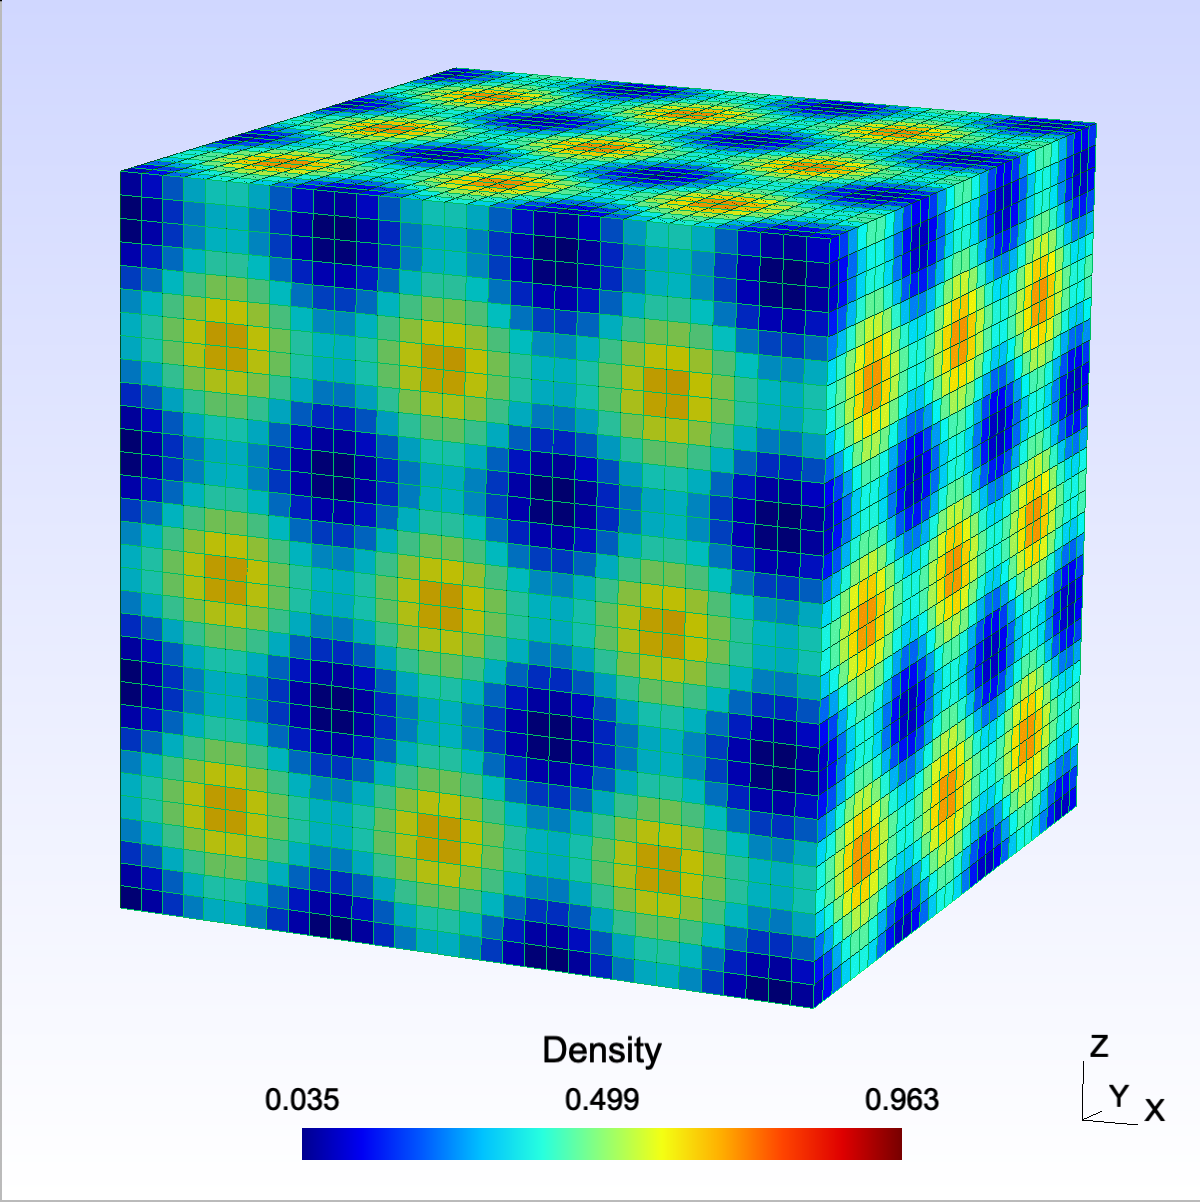
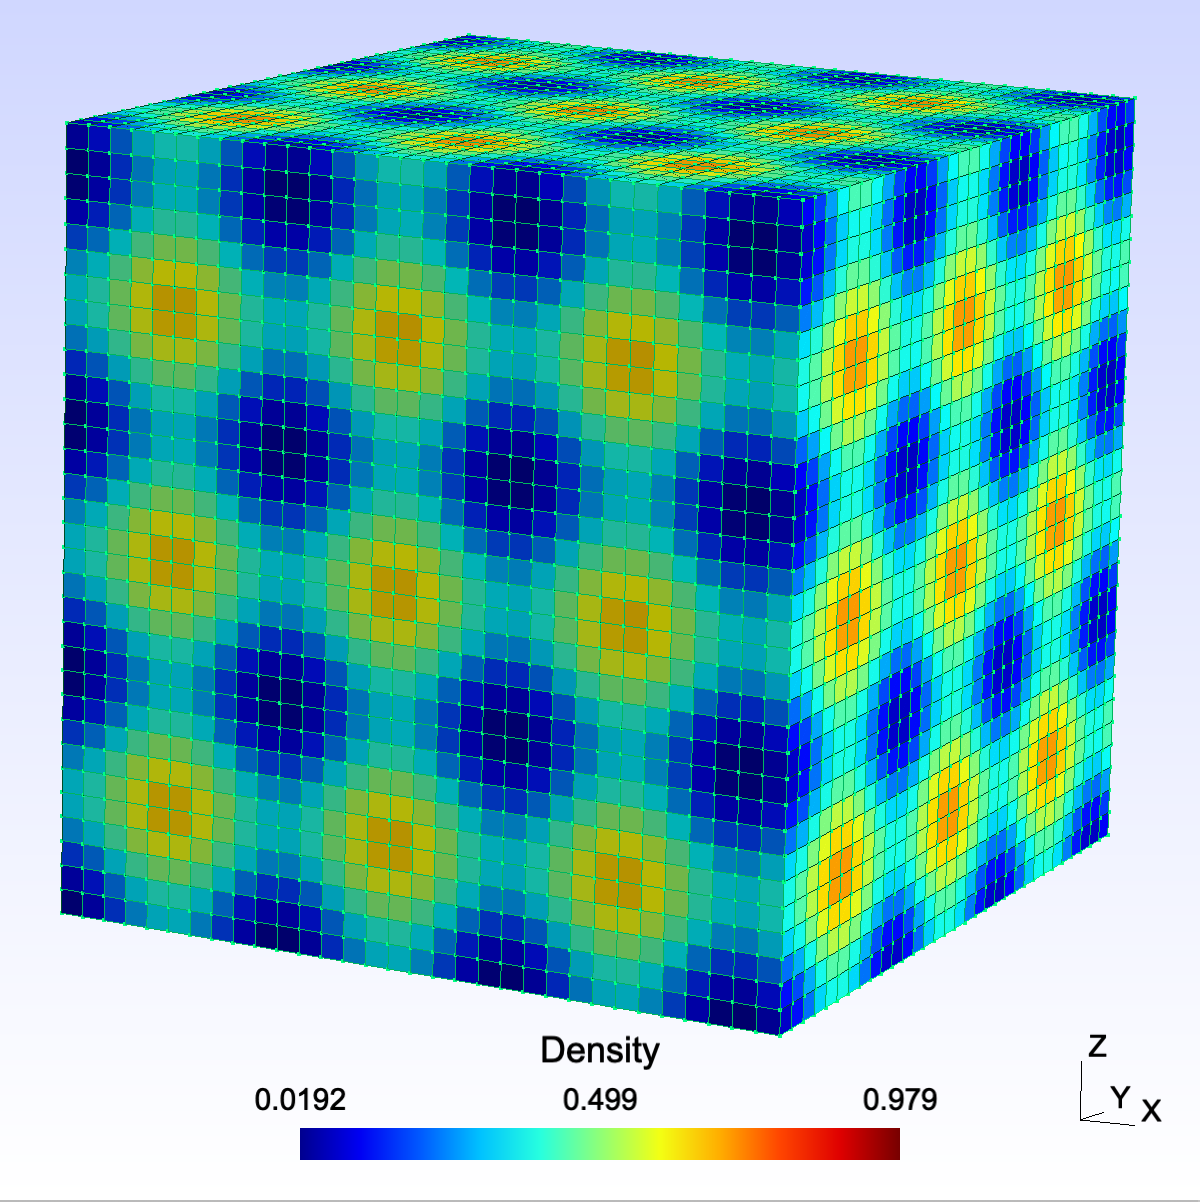
setDensitiesFunction uses element average
Change implementation from nodal average to element-wise average

diff --git a/include/monad/grid/grid_base.hpp b/include/monad/grid/grid_base.hpp
@@ -9,6 +9,7 @@
 #include <random>
 #include <functional>
 #include "monad/detail/constants.hpp"
+#include "monad/integration/integrate_scalar.hpp"
 
 namespace monad {
 
@@ -312,7 +313,7 @@ namespace monad {
         /**
          * @brief Set the material densities using a continuous function.
          *
-         * Element values are determined by averaging their nodal values.
+         * Element values are computed as the element-wise average of the continuous function.
          *
          * @param[in] f Continuous function from ℝᵈ→[0,1] evaluated at element nodes.
          *
@@ -323,19 +324,25 @@ namespace monad {
         void setDensitiesFunction(const std::function<double(const Point &)> &f) {
             for (std::size_t i = 0; i < numElements(); ++i) {
                 const auto nodes = elementNodes(i);
-                double mass = 0.0;
 
-                for (const Point node : nodes.rowwise()) {
-                    const double density = std::max(NUMERICAL_ZERO, f(node));
+                auto integrand = [&](const Point &point) -> double {
+                    const auto N = Element::shapeFunctions(point);
+                    const Point globalPoint = N.transpose() * nodes;
+
+                    const double density = f(globalPoint);
 
                     if (density < 0 || density > 1) {
                         throw std::invalid_argument("Function value (" + std::to_string(density) + ") is outside range [0,1].");
                     }
 
-                    mass += density;
-                }
+                    const auto J = Element::jacobian(point, nodes);
 
-                setDensity(i, mass / nodes.rows());
+                    return density * std::abs(J.determinant());
+                };
+
+                double density = integration::integrateScalar(integrand, Element::quadratureRule()) / Element::measure(nodes);
+
+                setDensity(i, density);
             }
         }
 

diff --git a/tests/grid/grid_3d_test.cpp b/tests/grid/grid_3d_test.cpp
@@ -748,25 +748,17 @@ TEMPLATE_LIST_TEST_CASE("monad::Grid3d: Test setDensitiesFunction", "[monad]", T
     TestType grid({2, 3, 4}, {0.5, 1.5, 2.0});
 
     SECTION("No errors") {
-        // sin²(x+y+z)
-        auto f = [](const Point &point) -> double {
-            const double x = point(0);
-            const double y = point(1);
-            const double z = point(2);
-
-            return std::pow(std::sin(x + y + z), 2);
+        // 0.1x+0.2y+0.3z
+        auto f = [](const Point &p) -> double {
+            return 0.1 * p(0) + 0.2 * p(1) + 0.3 * p(2);
         };
 
         grid.setDensitiesFunction(f);
 
-        double expected = 0.0;
+        // The average of a linear function over a convex region equals its value at the centroid
         const auto nodes = grid.elementNodes(1);
-
-        for (Point node : nodes.rowwise()) {
-            expected += f(node);
-        }
-
-        expected /= static_cast<double>(nodes.rows());
+        const Point centroid = nodes.colwise().mean();
+        const double expected = f(centroid);
 
         REQUIRE_THAT(grid.getDensity(1), Catch::Matchers::WithinAbs(expected, NUMERICAL_ZERO));
     }

diff --git a/tests/grid/grid_2d_test.cpp b/tests/grid/grid_2d_test.cpp
@@ -444,24 +444,17 @@ TEMPLATE_LIST_TEST_CASE("monad::Grid2d: Test setDensitiesFunction", "[monad]", T
     TestType grid({2, 3}, {0.5, 1.5});
 
     SECTION("No errors") {
-        // sin²(x+y)
-        auto f = [](const Point &point) -> double {
-            const double x = point(0);
-            const double y = point(1);
-
-            return std::pow(std::sin(x + y), 2);
+        // 0.1x+0.2y
+        auto f = [](const Point &p) -> double {
+            return 0.1 * p(0) + 0.2 * p(1);
         };
 
         grid.setDensitiesFunction(f);
 
-        double expected = 0.0;
+        // The average of a linear function over a convex region equals its value at the centroid
         const auto nodes = grid.elementNodes(1);
-
-        for (Point node : nodes.rowwise()) {
-            expected += f(node);
-        }
-
-        expected /= static_cast<double>(nodes.rows());
+        const Point centroid = nodes.colwise().mean();
+        const double expected = f(centroid);
 
         REQUIRE_THAT(grid.getDensity(1), Catch::Matchers::WithinAbs(expected, NUMERICAL_ZERO));
     }
